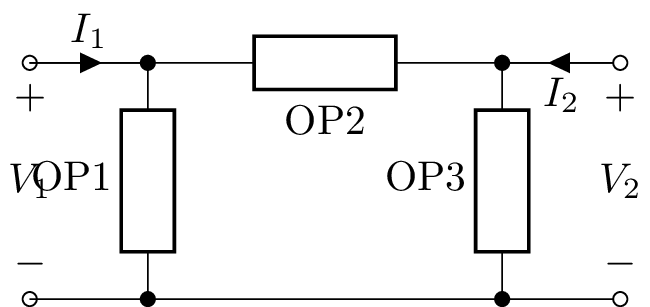
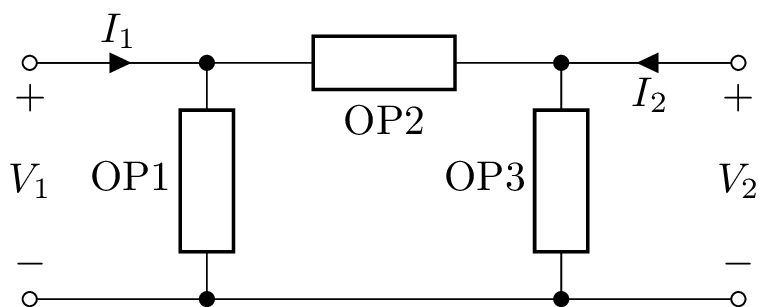
Add more two-port examples

diff --git a/lcapy/twoport.py b/lcapy/twoport.py
@@ -92,6 +92,8 @@ from .functions import exp, sqrt, Eq, MatMul, MatAdd
 # Thus it is advantageous to represent two-ports by the A (or B)
 # matrix.  However, things will go wrong when we transform to the Y or
 # Z matrix for specific cases.
+#
+# 4. Split this into separate modules.
 
 __all__ = ('Chain', 'Par2', 'Ser2', 'Hybrid2', 'InverseHybrid2',
            'Series', 'Shunt', 'SeriesAlt', 'SeriesPair',
@@ -3646,7 +3648,7 @@ class LSectionAlt(TwoPortThing):
 
 
 class CSection(TwoPortThing):
-    """C Section
+    """C Section.   This is a balanced version of `LSection`.
     ::
 
           +---------+
@@ -3674,7 +3676,7 @@ class CSection(TwoPortThing):
 
 
 class HSection(TwoPortThing):
-    """H Section
+    """H Section.  This is a balanced version of `TSection`.
     ::
 
           +---------+        +---------+
@@ -3703,7 +3705,7 @@ class HSection(TwoPortThing):
 
 
 class BoxSection(TwoPortThing):
-    """Box Section
+    """Box Section.  This is a balanced version of `PiSection`.
     ::
 
                   +---------+

diff --git a/lcapy/config.py b/lcapy/config.py
@@ -45,7 +45,9 @@ greek_letter_names = ('alpha', 'beta', 'gamma', 'delta', 'epislon',
                       'mu', 'nu', 'xi', 'omicron', 'pi', 'rho', 'sigma', 'tau',
                       'upsilon', 'phi', 'chi', 'psi', 'omega')
 
-words = greek_letter_names
+initialisms = ('OP', 'TP')
+
+words = greek_letter_names + initialisms
 
 # Can be 'GE', 'LU', 'ADJ', 'LDL', 'CH', 'DM'
 # Note, the DM method requires a new version of sympy otherwise

diff --git a/doc/networks.rst b/doc/networks.rst
@@ -197,7 +197,7 @@ Network functions
 
 - `parallel()` connect one-port components in parallel.  This is similar to `Par()` but is robust to `None` components and single components in parallel.
 
-- `ladder()` connect one-port components as a one-port ladder network.  This is an alternating sequence of series and parallel connections.   For example,
+- `ladder()` connect one-port components as a one-port ladder network.  This is an alternating sequence of series and parallel connections.   For example:
 
    >>> ladder(R(1), C(2), R(3))
    R(1) + (C(1) | R(3))
@@ -221,7 +221,7 @@ Note that the parallel operator is `|` instead of the usual `||`.
    >>> Rtot.simplify()
    R(10/3)
 
-The result can be performed symbolically, for example,
+The result can be performed symbolically, for example:
 
    >>> from lcapy import *
    >>> Rtot = R('R_1') | R('R_2')
@@ -257,7 +257,7 @@ Norton and Thevenin transformations
 -----------------------------------
 
 A Norton or Thevenin equivalent network can be created using the
-`norton` or `thevenin` methods.  For example,
+`norton` or `thevenin` methods.  For example:
 
    >>> from lcapy import Vdc, R
    >>> a = Vdc(1) + R(2)
@@ -341,7 +341,7 @@ For example,
    :width: 3cm
 
 
-The network components have optional keyword arguments (kwargs) that specify schematic attributes, for example,
+The network components have optional keyword arguments (kwargs) that specify schematic attributes, for example:
 
    >>> (R(2, color='blue') + C(3, color='green')).draw()
 
@@ -352,7 +352,7 @@ The network components have optional keyword arguments (kwargs) that specify sch
 Network synthesis
 =================
 
-Networks can be created using network synthesis techniques given an impedance or admittance expression, for example,
+Networks can be created using network synthesis techniques given an impedance or admittance expression, for example:
 
     >>> Z = impedance(4*s**2 + 3 * s + 1 / 6) / (s**2 + 2 * s / 3)
     >>> Z.network()
@@ -531,7 +531,7 @@ An A-parameter two-port model is created with:
 By default `V1a=0` and `I1a=0`.
 
 There are optional keyword arguments (kwargs) to specify schematic attributes,
-for example,
+for example:
 
    >>> n = TP(l='Two-port', fill='blue')
 
@@ -592,11 +592,11 @@ Shunt two-port
 .. image:: examples/schematics/shunt.png
    :width: 5cm
 
-A shunt two-port has a single one-port argument, `Shunt(OP)`, for example,
+A shunt two-port has a single one-port argument, `Shunt(OP)`, for example:
 
    >>> n = Shunt(R('R1'))
 
-The A-parameters can be found using::
+The A-parameters are::
 
    >>> n.Amodel.params
    ⎡1   0⎤
@@ -615,7 +615,7 @@ Series two-port
    :width: 5cm
 
 A series two-port has a single one-port argument, `Series(OP)`, for
-example
+example:
 
    >>> n = Series(L('L1'))
 
@@ -629,19 +629,44 @@ The A-parameters can be found using::
 The Z-parameters do not exist for a `Series` two-port.
 
 
+Series-pair two-port
+--------------------
+
+.. image:: examples/schematics/seriespair.png
+   :width: 5cm
+
+A series-pair two-port is a balanced version of a series two-port.
+It has two one-port arguments, `SeriesPair(OP1, OP2)`, for example:
+
+   >>> n = SeriesPair(L('L1/2'), L('L1/2'))
+
+The A-parameters can be found using::
+
+   >>> n.Amodel.params
+   ⎡1  L₁⋅s⎤
+   ⎢       ⎥
+   ⎣0   1  ⎦
+
+Electrically, `SeriesPair` is the same as `Series` chained to another
+`Series` two-port.  The Z-parameters do not exist for a `SeriesPair`
+two-port; the same as for a `Series` two-port.
+
+
 L-section two-port
 ------------------
 
 .. image:: examples/schematics/lsection.png
    :width: 5.5cm
 
-An L-section two-port has two one-port arguments, `LSection(OP1, OP2)`, for example,
+An L-section two-port has two one-port arguments, `LSection(OP1, OP2)`, for example:
 
    >>> n = LSection(L('L1'), R('R1'))
 
 This is equivalent to chaining a shunt two-port to a series two-port:
 
    >>> n = Series(L('L1').chain(Shunt(R('R1')))
+
+For a balanced version of `PiSection` use `CSection`.
 
 
 T-section two-port
@@ -650,9 +675,11 @@ T-section two-port
 .. image:: examples/schematics/tsection.png
    :width: 8cm
 
-A T-section (also known as a Y-section) two-port has three one-port arguments, `TSection(OP1, OP2, OP3)`, for example
+A T-section (also known as a Y-section) two-port has three one-port arguments, `TSection(OP1, OP2, OP3)`, for example:
 
    >>> n = TSection(L('L1'), R('R1'), C('C1'))
+
+For a balanced version of `PiSection` use `HSection`.
 
 
 Pi-section two-port
@@ -661,9 +688,31 @@ Pi-section two-port
 .. image:: examples/schematics/pisection.png
    :width: 7cm
 
-A pi-section two-port has three one-port arguments, `PiSection(OP1, OP2, OP3)`, for example
+A pi-section two-port has three one-port arguments, `PiSection(OP1, OP2, OP3)`, for example:
 
    >>> n = PiSection(L('L1'), R('R1'), C('C1'))
+
+For a balanced version of `PiSection` use `BoxSection`.
+
+
+Ladder two-port
+---------------
+
+.. image:: examples/schematics/ladder.png
+   :width: 12cm
+
+A ladder two-port has one or more one-port arguments, `Ladder(OP1,
+OP2, OP3, ...)`.  The first argument is considered a `Series` element,
+the second is considered a `Shunt` element, the third is considered a
+`Series` element and so on.  For example:
+
+   >>> n = Ladder(L('L1'), R('R1'), C('C1'))
+
+The `LadderAlt` class is similar to `Ladder` but the alternating
+sequence of elements starts with a `Shunt` element.   For example:
+
+.. image:: examples/schematics/ladderalt.png
+   :width: 10cm
 
 
 Transmission lines
@@ -699,9 +748,15 @@ List of two-ports
 
 - `Shunt`
 - `Series`
+- `SeriesAlt`
+- `SeriesPair`
 - `LSection`
+- `LSectionAlt`
 - `TSection`
 - `PiSection`
+- `CSection`
+- `HSection`
+- `BoxSection`
 - `GenericTwoPort`
 - `IdealTransformer`
 - `IdealGyrator`
@@ -721,6 +776,7 @@ List of two-ports
 - `TwinTSection`
 - `BridgedTSection`
 - `Ladder`
+- `LadderAlt`
 - `GeneralTransmissionLine`
 - `LosslessTransmissionLine`
 - `TransmissionLine`
@@ -925,7 +981,7 @@ Two-port network models
 Lcapy describes two-port networks in the Laplace domain using A, B, G,
 H, S, T, Y, and Z matrices.  Note, for some network configurations some of these matrices can be singular.
 
-Each model can be converted to the other parameterisations, for example,
+Each model can be converted to the other parameterisations, for example:
 
 >>> A = TPA()
 >>> TPA.params
